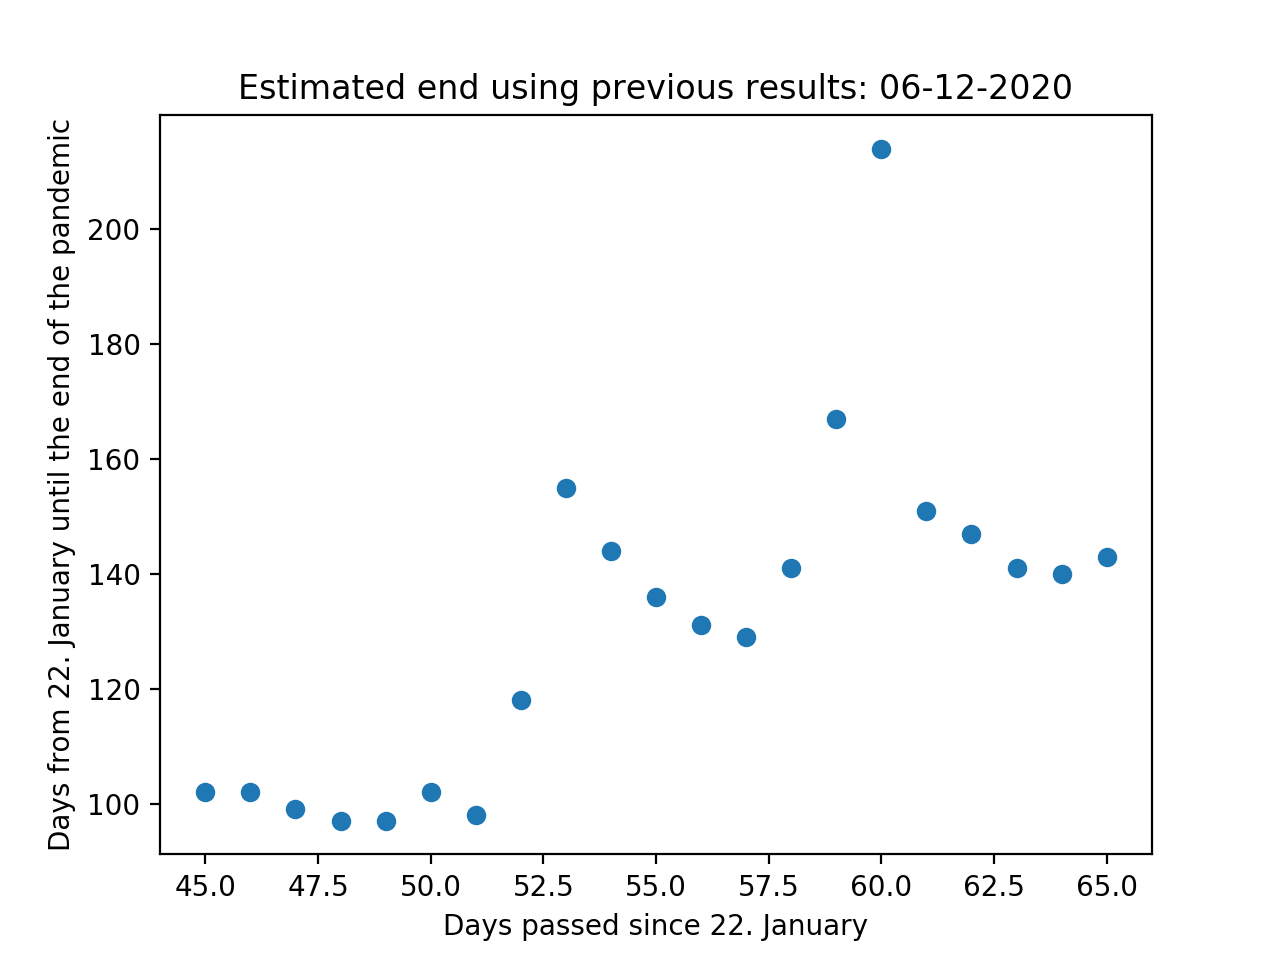
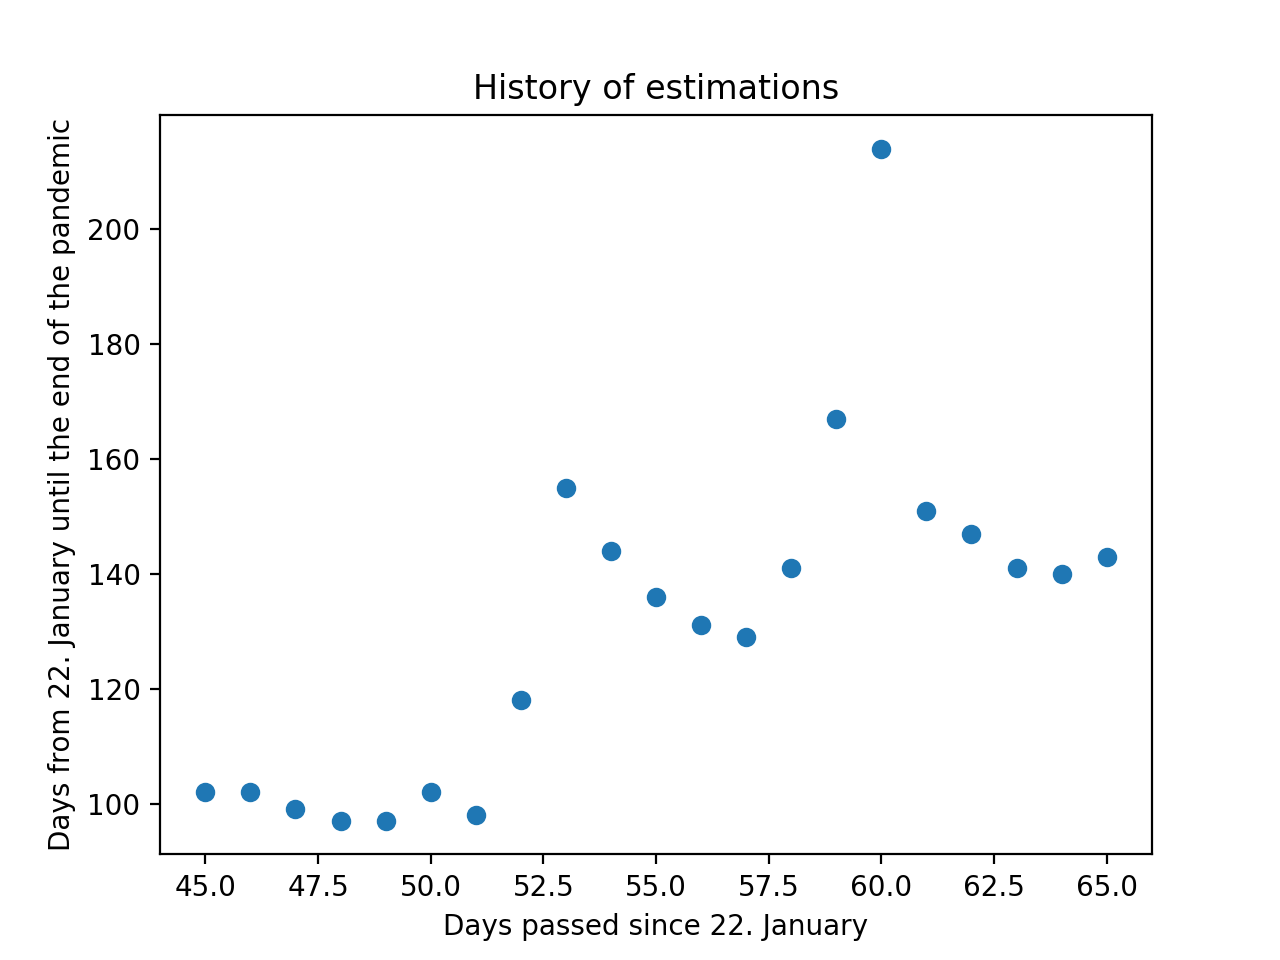
daily update

Changed region(s): [[0.1875, 0.0625, 0.6562, 0.125], [0.75, 0.0625, 0.8438, 0.125], [0.6875, 0.0625, 0.7188, 0.125]]

diff --git a/end_estimator.py b/end_estimator.py
@@ -22,7 +22,9 @@ w_mean = 0
 for index in range(len(ydata_mean)):
     w_mean += ydata_mean[index]*(index+1)/w_sum
 
+
 end_date = (beginning + timedelta(days=int(w_mean))).strftime('%m-%d-%Y')
-plt.title('Estimated end using previous results: '+end_date)
+print(end_date)
+plt.title('History of estimations')
 plt.savefig('output/end_estimation/'+today+'.png', dpi=200)
 plt.show()

diff --git a/README.md b/README.md
@@ -6,10 +6,22 @@ This is repository containing simple python scripts used to fit logistic curve t
 
 ## Data
 
-Data is pulled daily from [Johns Hopkins University Center for Systems Science and Engineering](https://github.com/CSSEGISandData/COVID-19)
+Data is fetched daily from [Johns Hopkins University Center for Systems Science and Engineering](https://github.com/CSSEGISandData/COVID-19),
+ignoring data from China since their curve is skewed by a whole month, making it more difficult to fit curve for the rest of the world.
+
 
 ## Results
+Current data looks like this:
 
-<img src="/output/regression/img/03-27-2020.png" height="500" width="700px" />
+<img src="/output/regression/img/03-27-2020.png" height="500" width="700px" />\
 
-<img src="/output/end_estimation/03-27-2020.png" height="500" width="700px" />
+Note: As more daily data arrives, the better estimation will be, since this is ongoing pandemic.\
+That's why there is second graph, showing history of these estimations:
+
+<img src="/output/end_estimation/03-27-2020.png" height="500" width="700px" />\
+This graph should converge to specific value, marking the end of the pandemic.\
+**DISCLAIMER:\
+Results shown here are for entertainment purpose and are not intended to represent real events.\
+Existing data is by no mean accurate, thus results are also NOT accurate.\
+Having said that, as of 27. March 2020. estimated end of pandemic is 12. June 2020.**
+ 
